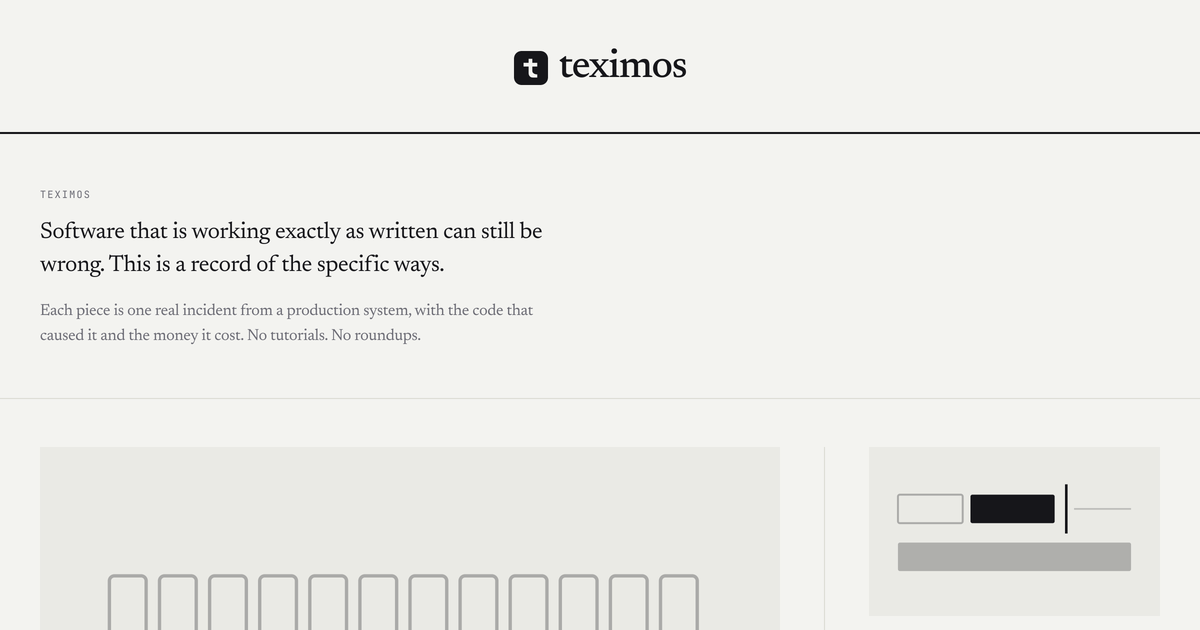
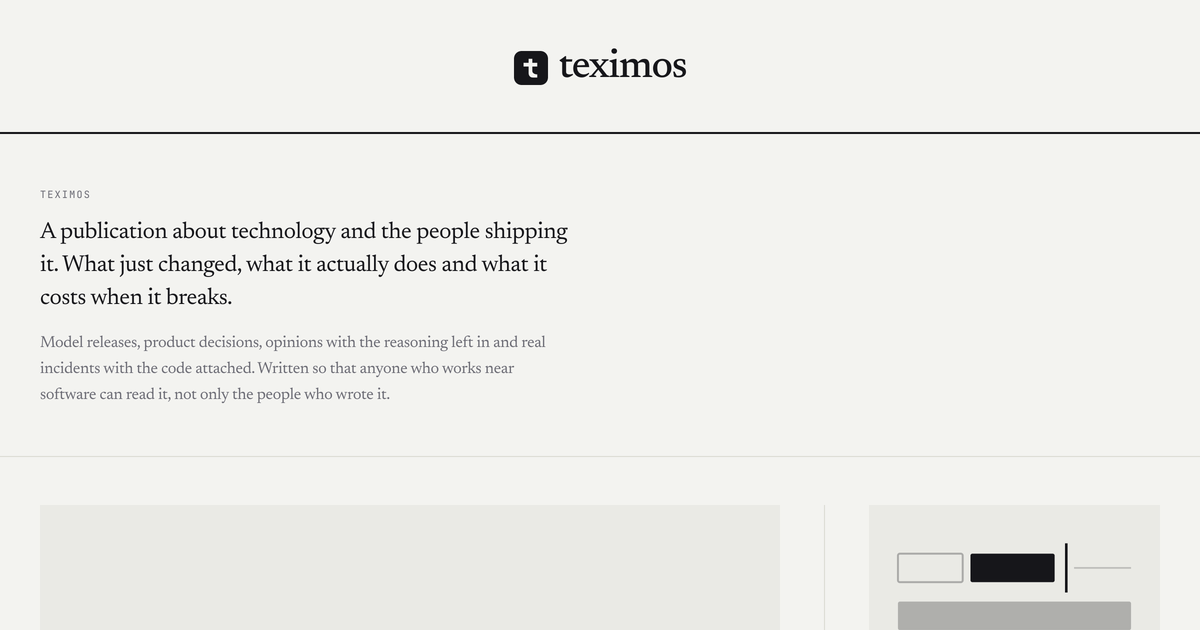
Widen the remit, and let articles carry real images
Two things.

The positioning described only the production incident write-ups, which
boxed the publication into a bug diary. The remit is the industry: releases,
product decisions, opinion and the engineering, written to be readable by
anyone who works near software rather than only by the people who wrote it.

Articles could carry a hand-drawn figure and nothing else. They can now carry
a real image instead. A new `cover` field on the schema goes through Astro's
image pipeline, so it is resized, converted to webp, given a srcset and
intrinsic dimensions, and it still ships no JavaScript. A cover wins over a
diagram wherever both are set. `<Shot>` does the same inside the body, with an
optional caption and a wide variant that breaks into the rail.

A photograph gets no sunk plate and no padding: that ground exists to hold a
drawn figure off the paper, and around a photo it reads as a mount. The
article hero runs edge to edge, capped by viewport height so a tall
screenshot cannot push the headline off the first screen.

Preview.astro now owns the cover-or-figure choice for the front page. It was
being made in three places on the index and a fourth would have got it wrong.

Changed region(s): [[0.0308, 0.3317, 0.4933, 0.6333], [0.0925, 0.9048, 0.5858, 1.0], [0.74, 0.7841, 0.9558, 1.0]]

diff --git a/src/content.config.ts b/src/content.config.ts
@@ -3,17 +3,30 @@ import { glob } from "astro/loaders";
 
 const blog = defineCollection({
   loader: glob({ base: "./src/content/blog", pattern: "**/*.{md,mdx}" }),
-  schema: z.object({
-    title: z.string(),
-    description: z.string(),
-    date: z.coerce.date(),
-    // The kicker above each headline. Names the subject, not the author.
-    topic: z.string().default("Engineering"),
-    // Selects a figure from src/components/diagrams. Unknown or absent just
-    // means the piece runs without artwork.
-    diagram: z.string().optional(),
-    draft: z.boolean().default(false),
-  }),
+  schema: ({ image }) =>
+    z.object({
+      title: z.string(),
+      description: z.string(),
+      date: z.coerce.date(),
+      // The kicker above each headline. Names the subject, not the author.
+      topic: z.string().default("Engineering"),
+      // Selects a figure from src/components/diagrams. Unknown or absent just
+      // means the piece runs without artwork.
+      diagram: z.string().optional(),
+      /*
+       * A real image, as an alternative to a drawn figure. A hand-authored
+       * diagram is right for a piece whose thesis IS a shape, and wrong for a
+       * piece about a release or a comparison, where the actual thing is worth
+       * showing. `cover` wins over `diagram` wherever both are set.
+       *
+       * image() runs it through Astro's build-time pipeline, so it is resized,
+       * given width and height to stop layout shift, and still ships no
+       * JavaScript. Path is relative to this file's article.
+       */
+      cover: image().optional(),
+      coverAlt: z.string().optional(),
+      draft: z.boolean().default(false),
+    }),
 });
 
 export const collections = { blog };

diff --git a/src/styles/global.css b/src/styles/global.css
@@ -362,6 +362,25 @@ a:hover {
   margin-bottom: 1rem;
 }
 
+/*
+ * A real image gets no padding and no ground. The sunk plate exists to hold a
+ * drawn figure off the paper, and around a photograph it reads as a mount.
+ * Cropped to the same 1.85:1 the figures use so a mixed row stays level.
+ */
+.art-photo {
+  padding: 0;
+  background: none;
+  overflow: hidden;
+}
+
+.art-photo img {
+  display: block;
+  width: 100%;
+  height: 100%;
+  aspect-ratio: 400 / 216;
+  object-fit: cover;
+}
+
 /* the labelled figure is for the article page. see the note in index.astro */
 .art-wide {
   display: block;
@@ -467,6 +486,19 @@ a:hover {
   padding: 2.5rem var(--gutter) 2rem;
 }
 
+/*
+ * A photographic hero runs edge to edge with no padding at all. Capped by
+ * viewport height rather than a fixed pixel height, so a tall screenshot cannot
+ * push the headline off the first screen.
+ */
+.hero-photo img {
+  display: block;
+  width: 100%;
+  height: auto;
+  max-height: 60vh;
+  object-fit: cover;
+}
+
 .article-head {
   display: grid;
   grid-template-columns: 1fr 17rem;
@@ -566,6 +598,18 @@ a:hover {
   font-size: 0.6875rem;
   letter-spacing: 0.05em;
   color: var(--muted);
+}
+
+/*
+ * A real image inside an article. Ruled rather than shadowed: a screenshot on
+ * paper needs an edge or it bleeds into the page, and a shadow would be the
+ * first non-flat thing on the whole site.
+ */
+.shot img {
+  display: block;
+  width: 100%;
+  height: auto;
+  border: 1px solid var(--rule);
 }
 
 .prose > * + * {

diff --git a/src/consts.ts b/src/consts.ts
@@ -1,15 +1,19 @@
 export const SITE_TITLE = "Teximos";
 export const SITE_DESCRIPTION =
-  "A publication about how software actually behaves in production, told through the failures.";
+  "A publication about technology: what just shipped, what it actually does and what it costs when it breaks.";
 export const SITE_URL = "https://teximos.com";
 
 // The line under the wordmark on the index. States what the publication is
 // about rather than who writes it.
+//
+// Deliberately wider than the first version, which described only the
+// production incident write-ups and read as a bug diary. The remit is the
+// industry: releases, product decisions, opinion and the engineering.
 export const SITE_STATEMENT =
-  "Software that is working exactly as written can still be wrong. This is a record of the specific ways.";
+  "A publication about technology and the people shipping it. What just changed, what it actually does and what it costs when it breaks.";
 
 export const SITE_BLURB =
-  "Each piece is one real incident from a production system, with the code that caused it and the money it cost. No tutorials. No roundups.";
+  "Model releases, product decisions, opinions with the reasoning left in and real incidents with the code attached. Written so that anyone who works near software can read it, not only the people who wrote it.";
 
 export const AUTHOR = {
   name: "Jeremiah Diana",

diff --git a/src/assets/blog/README.md b/src/assets/blog/README.md
@@ -1,0 +1,19 @@
+Images for articles.
+
+Put a real image here, then reference it from an article's frontmatter as a
+cover, or import it into the body:
+
+    cover: ../../assets/blog/thing.png
+    coverAlt: "What is in the picture"
+
+    import Shot from "../../components/Shot.astro";
+    import thing from "../../assets/blog/thing.png";
+
+    <Shot src={thing} alt="..." caption="..." wide />
+
+Anything in here goes through Astro's build-time pipeline: resized, converted
+to webp, given a srcset and intrinsic dimensions. Nothing ships to the browser
+that was not asked for, and no JavaScript is added.
+
+A `cover` wins over a `diagram` when both are set. Use a drawn figure when the
+thesis IS a shape. Use a real image when the actual thing is worth showing.
